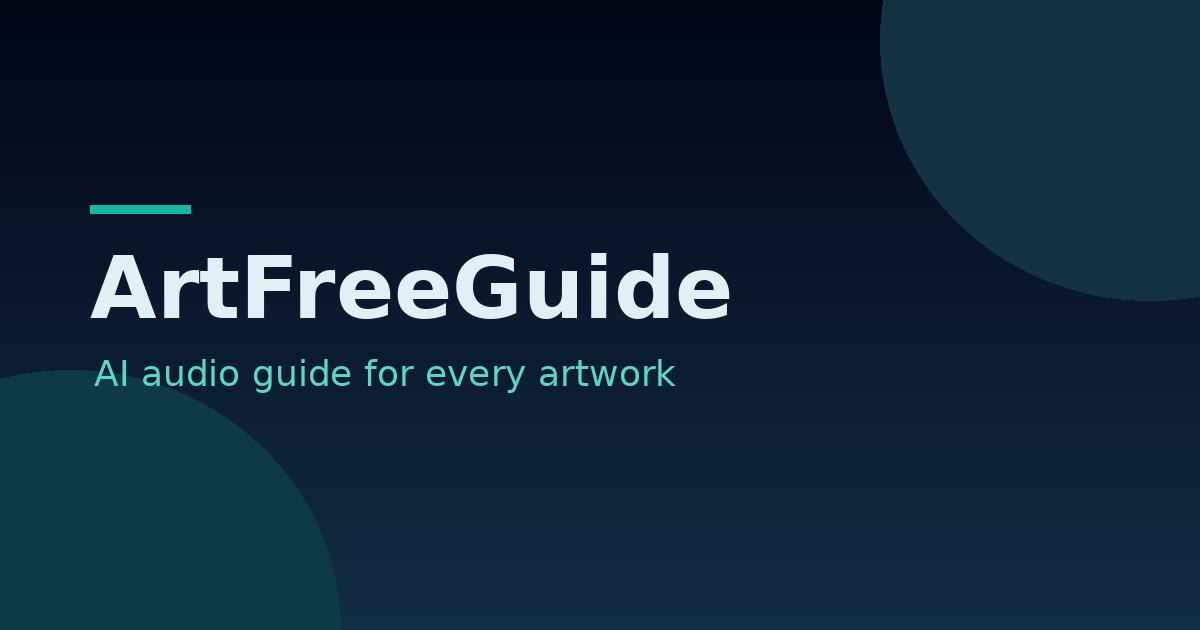
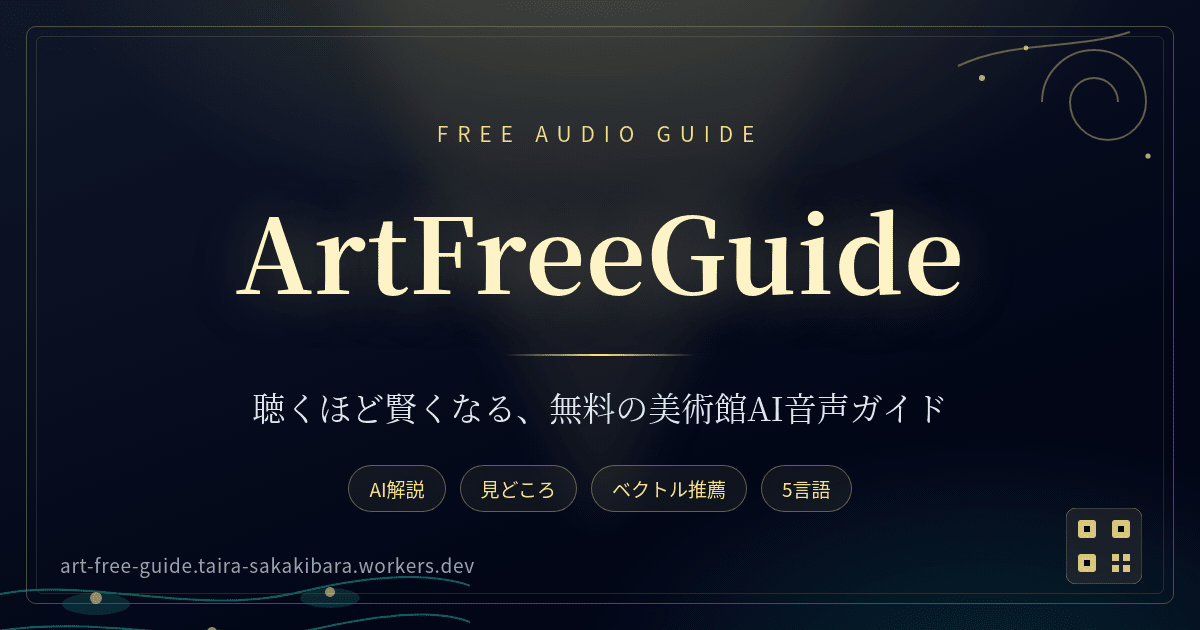
Give the repository a front door

diff --git a/docs/brand/ogp.html b/docs/brand/ogp.html
@@ -1,0 +1,100 @@
+<!doctype html>
+<html lang="ja">
+<head>
+<meta charset="utf-8">
+<style>
+  * { margin: 0; padding: 0; box-sizing: border-box; }
+  body { width: 1200px; height: 630px; overflow: hidden;
+         font-family: 'Noto Sans CJK JP', sans-serif; background: #020617; color: #f8fafc; }
+  .card { position: relative; width: 1200px; height: 630px;
+          background:
+            radial-gradient(900px 520px at 50% -12%, rgba(253,230,138,.20), transparent 62%),
+            radial-gradient(700px 420px at 82% 108%, rgba(45,212,191,.14), transparent 60%),
+            linear-gradient(160deg, #0f172a 0%, #020617 72%);
+          overflow: hidden; }
+  /* museum spotlight cone */
+  .cone { position: absolute; top: -180px; left: 50%; transform: translateX(-50%);
+          width: 0; height: 0; border-left: 330px solid transparent; border-right: 330px solid transparent;
+          border-top: 720px solid rgba(253,230,138,.07); filter: blur(26px); }
+  .frame { position: absolute; inset: 26px; border: 1px solid rgba(253,230,138,.28); border-radius: 10px; }
+  .frame::after { content: ''; position: absolute; inset: 9px; border: 1px solid rgba(253,230,138,.13); border-radius: 6px; }
+  .content { position: relative; height: 100%; display: flex; flex-direction: column;
+             align-items: center; justify-content: center; text-align: center; padding: 0 90px; }
+  .eyebrow { font-size: 21px; letter-spacing: .42em; color: #fde68a; opacity: .9; margin-bottom: 26px; }
+  h1 { font-family: 'Noto Serif CJK JP', serif; font-size: 104px; font-weight: 700; letter-spacing: .01em;
+       color: #fef3c7; text-shadow: 0 0 60px rgba(253,230,138,.35); }
+  .rule { width: 190px; height: 2px; margin: 30px 0 26px;
+          background: linear-gradient(90deg, transparent, #fde68a, transparent); }
+  .sub { font-family: 'Noto Serif CJK JP', serif; font-size: 33px; line-height: 1.5; color: #e2e8f0; }
+  .tags { margin-top: 34px; display: flex; gap: 14px; }
+  .tag { font-size: 19px; padding: 9px 20px; border-radius: 999px;
+         border: 1px solid rgba(253,230,138,.35); color: #fde68a; background: rgba(253,230,138,.06); }
+  .url { position: absolute; left: 60px; bottom: 52px; font-size: 19px; color: #94a3b8; letter-spacing: .04em; }
+  .mark { position: absolute; right: 58px; bottom: 46px; }
+</style>
+</head>
+<body>
+  <div class="card">
+    <div class="cone"></div>
+    <div class="frame"></div>
+
+    <!-- minimal water-lilies motif, bottom left -->
+    <svg width="470" height="230" viewBox="0 0 470 230" style="position:absolute;left:0;bottom:-46px;opacity:.95">
+      <g fill="none" stroke="#2dd4bf" stroke-opacity=".45" stroke-width="2">
+        <path d="M-10 150 C 90 128, 190 172, 300 146 S 470 132, 490 152"/>
+        <path d="M-10 186 C 110 166, 210 206, 320 182 S 470 170, 490 188"/>
+      </g>
+      <g fill="#2dd4bf" fill-opacity=".16">
+        <ellipse cx="96" cy="158" rx="34" ry="11"/>
+        <ellipse cx="212" cy="192" rx="27" ry="9"/>
+        <ellipse cx="330" cy="152" rx="30" ry="10"/>
+      </g>
+      <g fill="#fde68a" fill-opacity=".6">
+        <circle cx="96" cy="152" r="6"/><circle cx="212" cy="186" r="5"/><circle cx="330" cy="146" r="5"/>
+      </g>
+    </svg>
+
+    <!-- minimal starry-night swirl, top right -->
+    <svg width="330" height="250" viewBox="0 0 330 250" style="position:absolute;right:8px;top:6px;opacity:.9">
+      <g fill="none" stroke="#fde68a" stroke-opacity=".4" stroke-width="2">
+        <path d="M232 96 m-52 0 a52 52 0 1 1 104 0 a38 38 0 1 1 -76 0 a24 24 0 1 1 48 0"/>
+        <path d="M96 60 C 150 34, 214 44, 268 26"/>
+      </g>
+      <g fill="#fde68a" fill-opacity=".8">
+        <circle cx="120" cy="72" r="3"/><circle cx="164" cy="42" r="2.4"/><circle cx="286" cy="150" r="2.6"/>
+      </g>
+    </svg>
+
+    <div class="content">
+      <div class="eyebrow">FREE AUDIO GUIDE</div>
+      <h1>ArtFreeGuide</h1>
+      <div class="rule"></div>
+      <div class="sub">聴くほど賢くなる、無料の美術館AI音声ガイド</div>
+      <div class="tags">
+        <div class="tag">AI解説</div>
+        <div class="tag">見どころ</div>
+        <div class="tag">ベクトル推薦</div>
+        <div class="tag">5言語</div>
+      </div>
+    </div>
+
+    <div class="url">art-free-guide.taira-sakakibara.workers.dev</div>
+
+    <!-- QR-like mark -->
+    <svg class="mark" width="76" height="76" viewBox="0 0 76 76">
+      <rect width="76" height="76" rx="10" fill="rgba(253,230,138,.08)" stroke="rgba(253,230,138,.35)"/>
+      <g fill="#fde68a" fill-opacity=".85">
+        <rect x="12" y="12" width="18" height="18" rx="3"/>
+        <rect x="46" y="12" width="18" height="18" rx="3"/>
+        <rect x="12" y="46" width="18" height="18" rx="3"/>
+        <rect x="46" y="46" width="7" height="7"/><rect x="57" y="46" width="7" height="7"/>
+        <rect x="46" y="57" width="7" height="7"/><rect x="57" y="57" width="7" height="7"/>
+      </g>
+      <g fill="#020617">
+        <rect x="18" y="18" width="6" height="6"/><rect x="52" y="18" width="6" height="6"/>
+        <rect x="18" y="52" width="6" height="6"/>
+      </g>
+    </svg>
+  </div>
+</body>
+</html>

diff --git a/docs/brand/hero.html b/docs/brand/hero.html
@@ -1,0 +1,69 @@
+<!doctype html>
+<html lang="ja">
+<head>
+<meta charset="utf-8">
+<style>
+  * { margin: 0; padding: 0; box-sizing: border-box; }
+  body { width: 1200px; height: 675px; overflow: hidden;
+         font-family: 'Noto Sans CJK JP', sans-serif; color: #f8fafc; background: #020617; }
+  .stage { position: relative; width: 1200px; height: 675px; display: flex; align-items: center;
+           background:
+             radial-gradient(760px 460px at 26% -10%, rgba(253,230,138,.18), transparent 62%),
+             radial-gradient(620px 420px at 96% 110%, rgba(45,212,191,.13), transparent 60%),
+             linear-gradient(155deg, #0f172a 0%, #020617 70%);
+           overflow: hidden; }
+  .cone { position: absolute; top: -240px; right: 130px;
+          width: 0; height: 0; border-left: 260px solid transparent; border-right: 260px solid transparent;
+          border-top: 900px solid rgba(253,230,138,.07); filter: blur(30px); }
+  .copy { width: 660px; padding: 0 0 0 78px; position: relative; }
+  .eyebrow { font-size: 17px; letter-spacing: .4em; color: #fde68a; opacity: .9; margin-bottom: 20px; }
+  h1 { font-family: 'Noto Serif CJK JP', serif; font-size: 74px; color: #fef3c7; letter-spacing: .01em;
+       text-shadow: 0 0 54px rgba(253,230,138,.3); }
+  .lead { font-family: 'Noto Serif CJK JP', serif; font-size: 29px; line-height: 1.55; margin-top: 22px; color: #e2e8f0; }
+  .lead span { color: #fde68a; }
+  .badges { display: flex; flex-wrap: wrap; gap: 12px; margin-top: 34px; width: 560px; }
+  .badge { font-size: 18px; padding: 10px 18px; border-radius: 999px;
+           border: 1px solid rgba(253,230,138,.32); color: #fde68a; background: rgba(253,230,138,.06); }
+  .url { margin-top: 36px; font-size: 18px; color: #94a3b8; letter-spacing: .03em; }
+
+  .device { position: absolute; right: 96px; top: 50%; transform: translateY(-50%) rotate(-3deg);
+            width: 320px; height: 660px; border-radius: 46px; padding: 11px;
+            background: linear-gradient(160deg, #334155, #0b1220 60%);
+            box-shadow: 0 44px 90px rgba(0,0,0,.65), 0 0 0 1px rgba(253,230,138,.16),
+                        0 0 90px rgba(253,230,138,.10); }
+  .screen { position: relative; width: 100%; height: 100%; border-radius: 36px; overflow: hidden; background: #020617; }
+  .screen img { width: 100%; display: block; }
+  .notch { position: absolute; top: 12px; left: 50%; transform: translateX(-50%);
+           width: 108px; height: 22px; border-radius: 999px; background: #020617; }
+  .glow { position: absolute; right: 40px; top: 50%; transform: translateY(-50%);
+          width: 430px; height: 430px; border-radius: 50%;
+          background: radial-gradient(circle, rgba(253,230,138,.13), transparent 66%); filter: blur(12px); }
+</style>
+</head>
+<body>
+  <div class="stage">
+    <div class="cone"></div>
+    <div class="glow"></div>
+
+    <div class="copy">
+      <div class="eyebrow">FREE AUDIO GUIDE</div>
+      <h1>ArtFreeGuide</h1>
+      <div class="lead">美術館の音声ガイドを、誰でも無料で。<br><span>聴くほど賢くなる</span>、AI学芸員付きのパーソナルガイド</div>
+      <div class="badges">
+        <div class="badge">🎨 AI音声ガイド</div>
+        <div class="badge">🔍 ベクトル検索推薦</div>
+        <div class="badge">🎵 プロシージャルBGM</div>
+        <div class="badge">🌍 多言語対応</div>
+      </div>
+      <div class="url">art-free-guide.taira-sakakibara.workers.dev</div>
+    </div>
+
+    <div class="device">
+      <div class="screen">
+        <img src="screen.png" alt="">
+        <div class="notch"></div>
+      </div>
+    </div>
+  </div>
+</body>
+</html>

diff --git a/docs/brand/icon.html b/docs/brand/icon.html
@@ -1,0 +1,10 @@
+<!doctype html>
+<html><head><meta charset="utf-8"><style>
+  * { margin:0; padding:0; box-sizing:border-box; }
+  body { width:512px; height:512px; background:#0f172a; font-family:'Noto Serif CJK JP', serif; }
+  .frame { position:absolute; inset:36px; border:14px solid #fde68a; border-radius:18px;
+           display:flex; align-items:center; justify-content:center; background:#0f172a;
+           box-shadow: inset 0 0 0 6px #0f172a, inset 0 0 0 12px rgba(253,230,138,.35); }
+  .a { font-size:250px; font-weight:700; color:#fde68a; line-height:1; margin-top:-14px; }
+</style></head>
+<body><div class="frame"><div class="a">A</div></div></body></html>

diff --git a/src/app/layout.tsx b/src/app/layout.tsx
@@ -23,6 +23,13 @@ export const metadata: Metadata = {
     url: SITE_URL,
     title: 'ArtFreeGuide | 無料のAI美術館音声ガイド',
     description: DESCRIPTION,
+    images: [{ url: '/og-default.png', width: 1200, height: 630, alt: 'ArtFreeGuide' }],
+  },
+  twitter: {
+    card: 'summary_large_image',
+    title: 'ArtFreeGuide | 無料のAI美術館音声ガイド',
+    description: DESCRIPTION,
+    images: ['/og-default.png'],
   },
 };
 

diff --git a/docs/brand/README.md b/docs/brand/README.md
@@ -1,0 +1,21 @@
+# ブランド画像の作り方
+
+`hero.png` / `ogp.png` / `src/app/icon.png` はこのディレクトリの HTML を Chrome で撮影して作っています。
+
+```bash
+# 1. アプリのスクリーンショット（docs/brand/screen.png）を撮り直す場合
+#    本番の「睡蓮」画面をモバイル幅で撮影し、docs/brand/screen.png に置く
+
+# 2. HTML を撮影（Chrome のヘッドレス。日本語は Noto Sans/Serif CJK JP を使用）
+google-chrome --headless=new --disable-gpu --no-sandbox --hide-scrollbars \
+  --window-size=1200,675 --screenshot=docs/images/hero.png docs/brand/hero.html
+google-chrome --headless=new --disable-gpu --no-sandbox --hide-scrollbars \
+  --window-size=1200,630 --screenshot=docs/images/ogp.png docs/brand/ogp.html
+google-chrome --headless=new --disable-gpu --no-sandbox --hide-scrollbars \
+  --window-size=512,512 --screenshot=src/app/icon.png docs/brand/icon.html
+
+# 3. 圧縮（500KB 以下に収める）
+pngquant --quality 65-90 --strip --force --ext .png docs/images/hero.png docs/images/ogp.png
+```
+
+`docs/images/ogp.png` と同じ画像を `public/og-default.png`（共有カードの既定画像）にも置いています。
